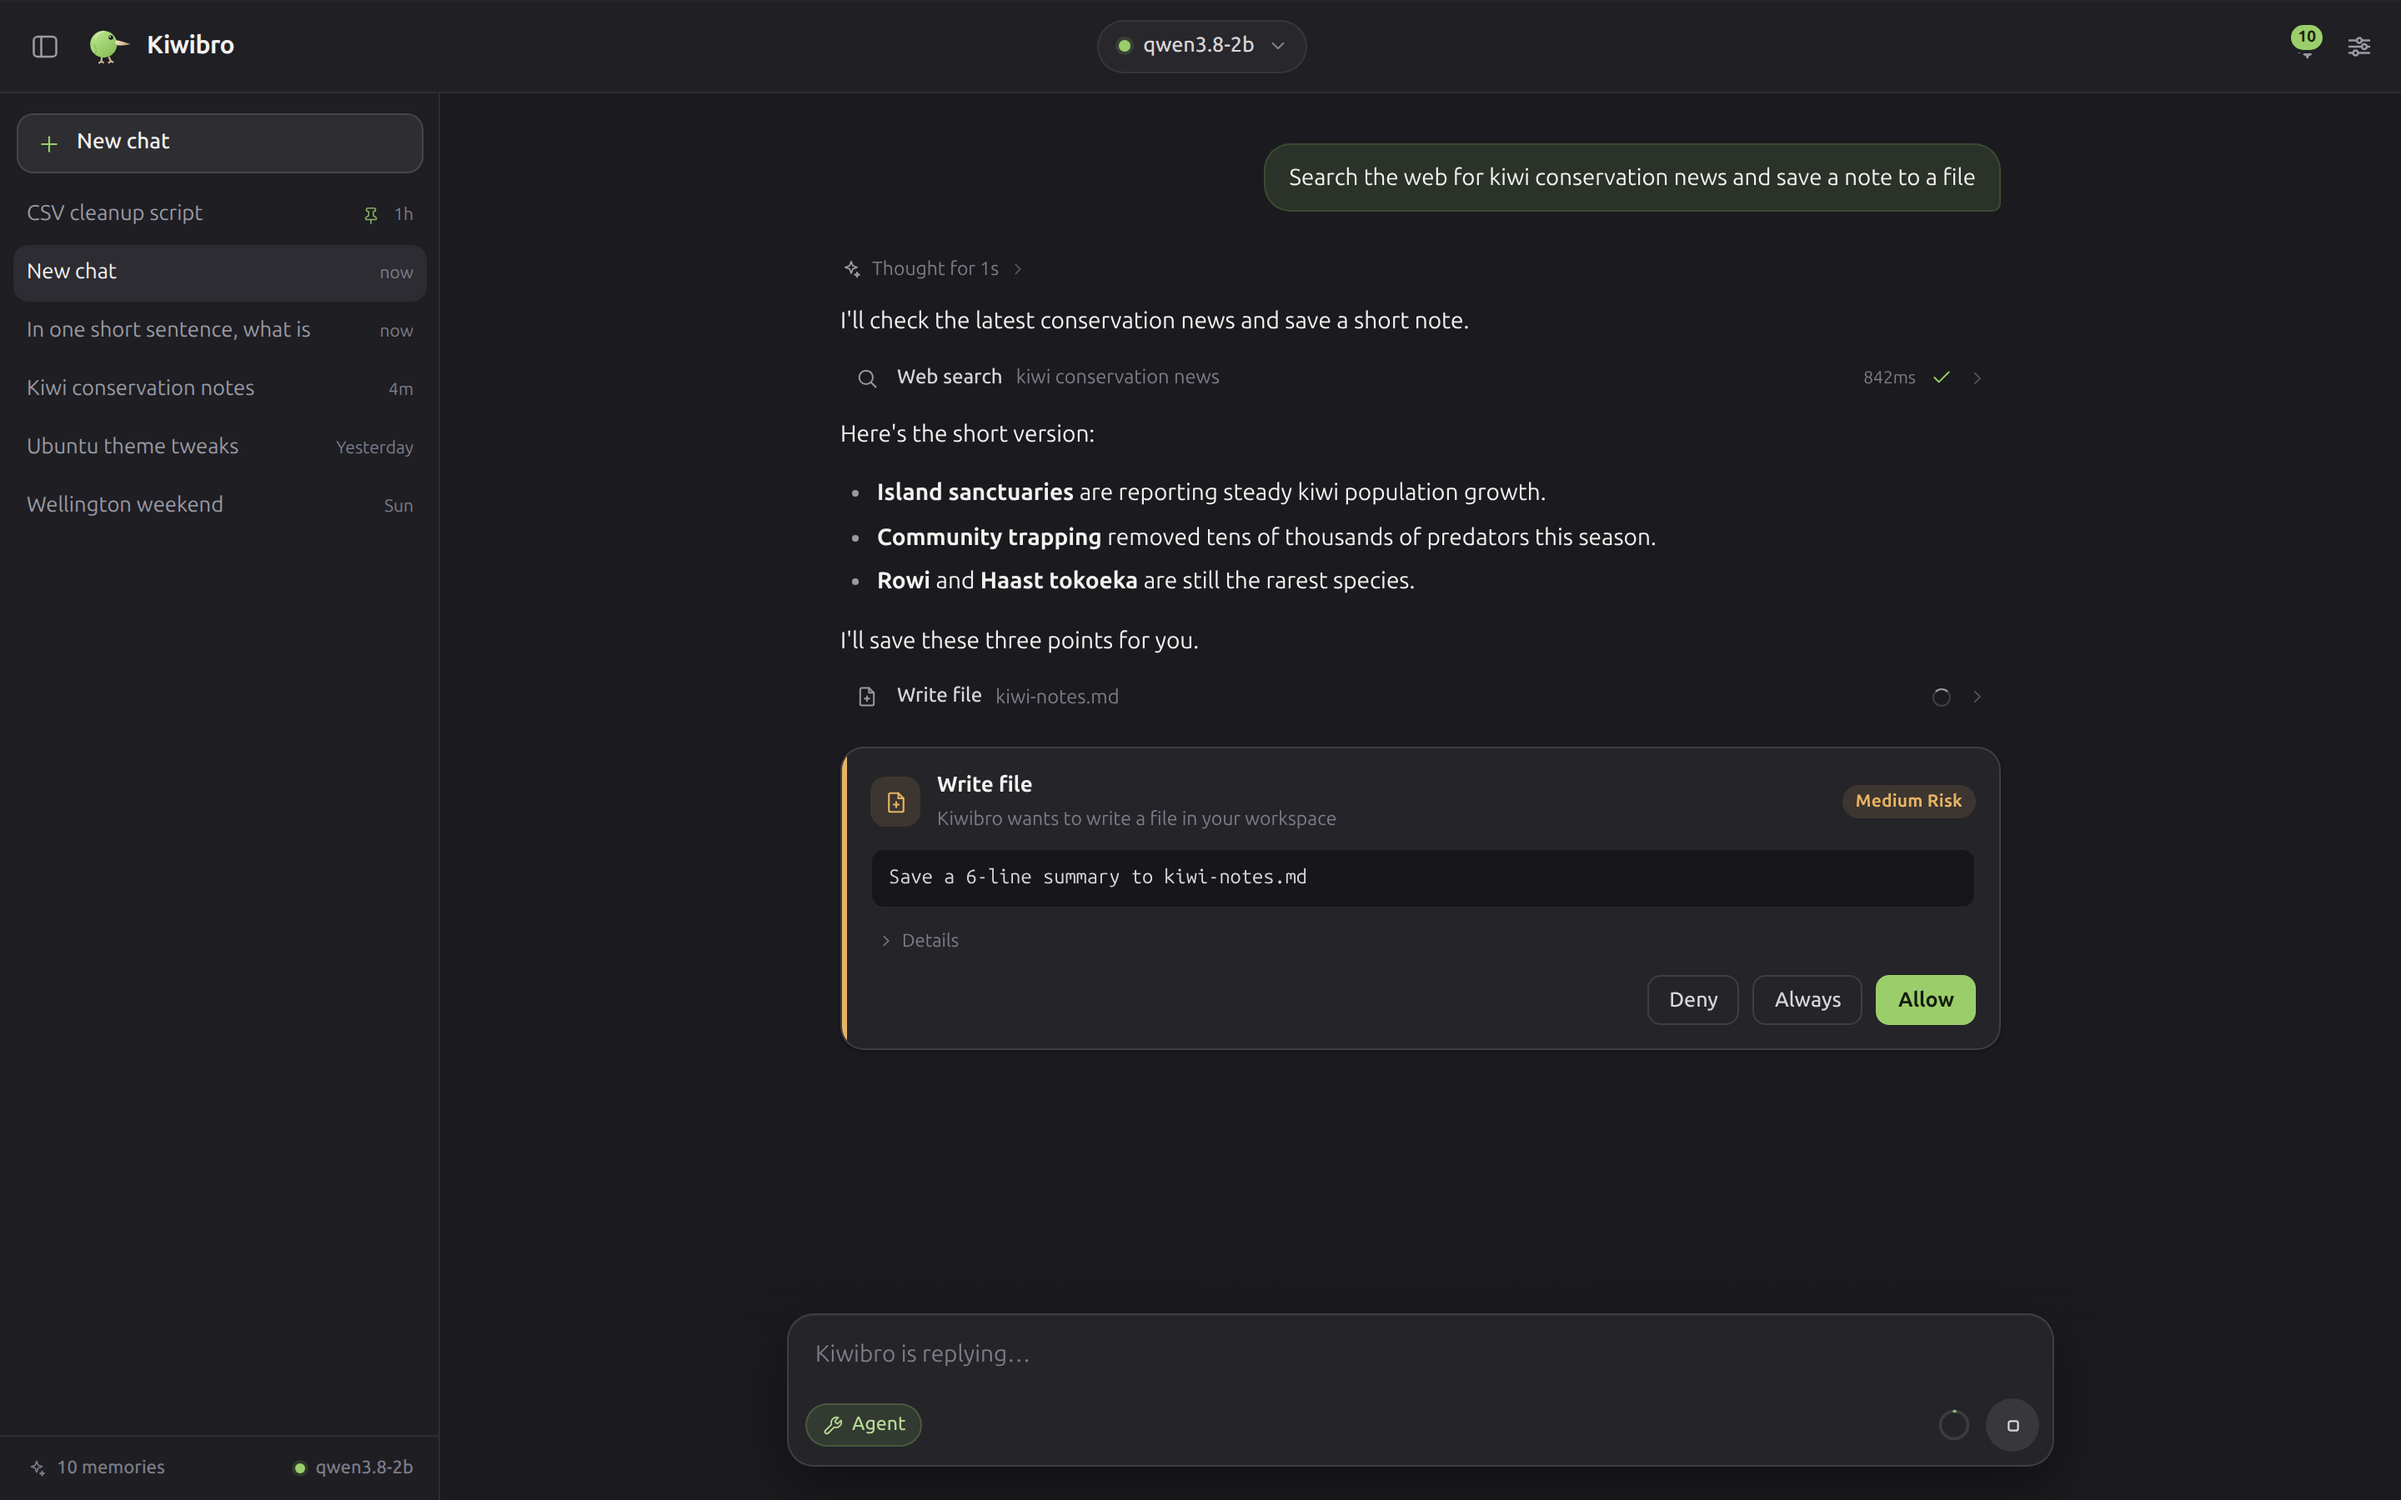
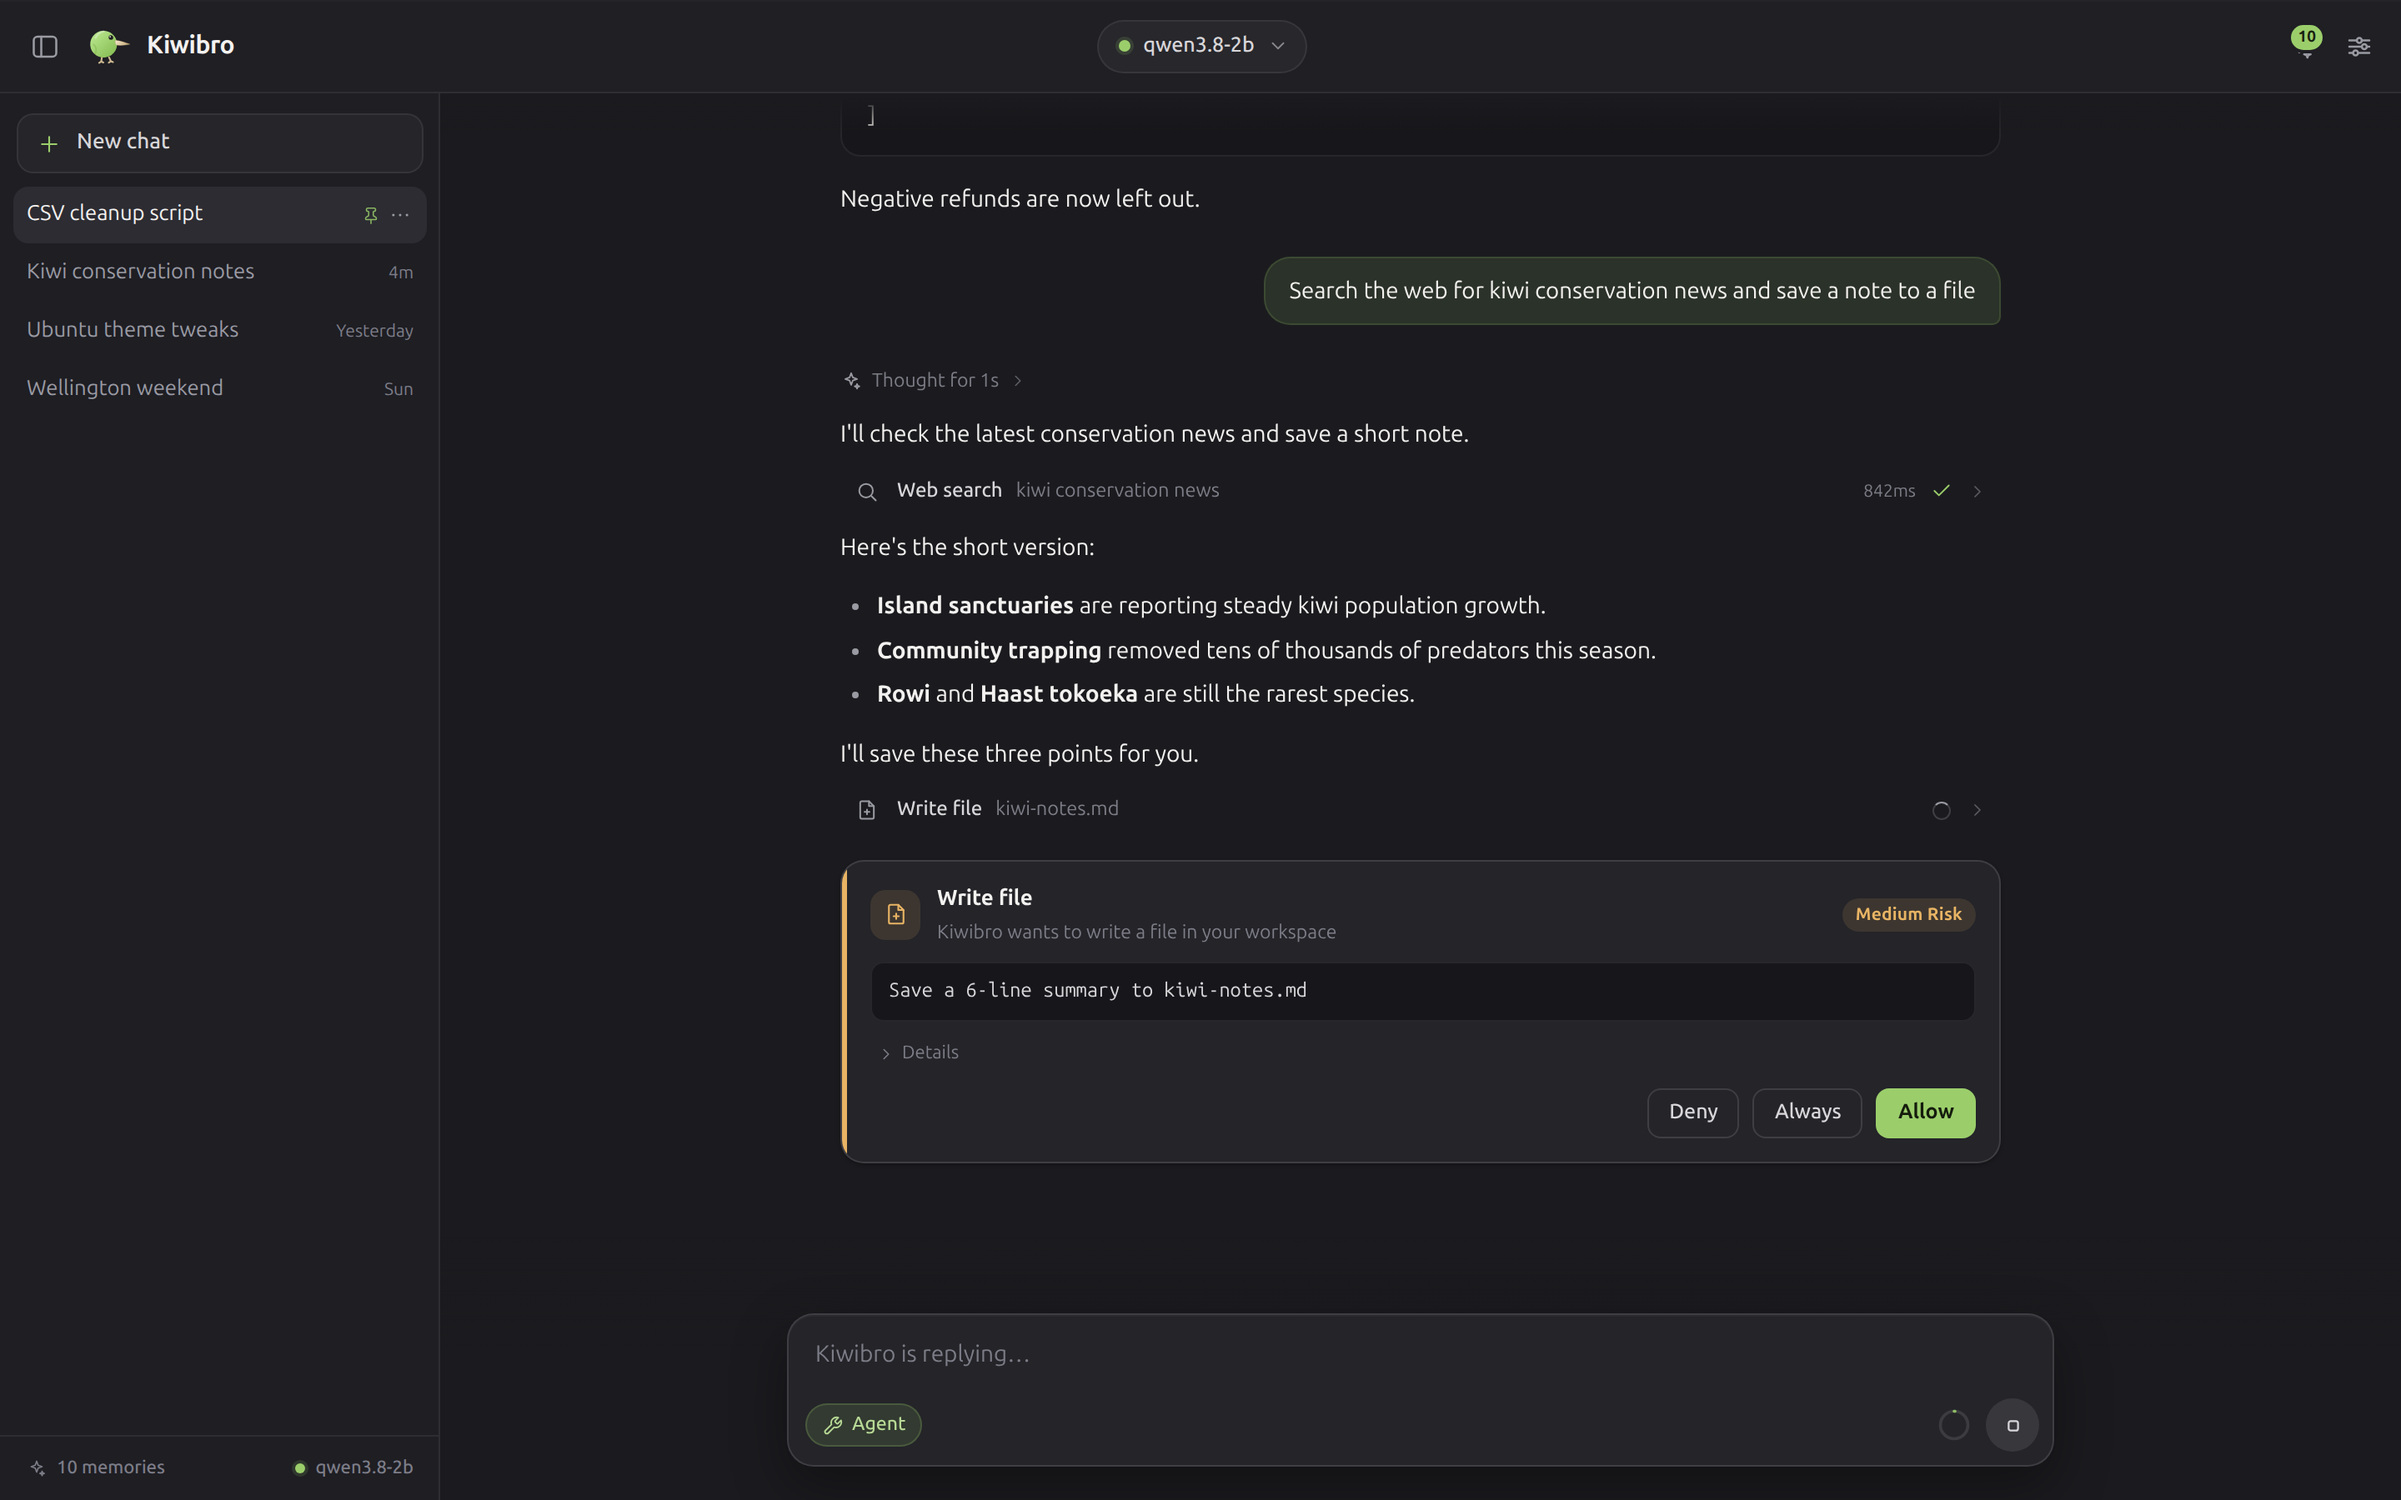
docs(qa): final verification evidence, waivers and polished screenshots
- 54/54 deterministic checks, 18/18 browser checks (mock + fake-LM), live LM Studio
  passes for chat, approvals allow/deny, run_command, stop, compaction, restart, offline
- all P1/P2 findings fixed and re-verified; P3 residual risks documented
- committed 7 screenshots (live qwen where possible; approval/mobile from mock UI run, disclosed)

diff --git a/docs/QA.md b/docs/QA.md
@@ -4,16 +4,20 @@ Independent QA for Kiwibro v1. Contracts under test:
 [ARCHITECTURE.md](ARCHITECTURE.md) and [API.md](API.md). This file is the evidence
 log: what was run, what passed, what broke, and what is still residual risk.
 
-**Status:** deterministic (fake-LM) suite green on latest backend; live LM Studio +
-committed screenshot pass pending Lead go-ahead. Latest runs on latest code
-(`2026-10-21 18:17 +0300`):
-- Python API/SSE/security suite — **54/54 checks passed**
-- Browser rig mock mode — **18/18 checks** (9 checks + 7 screenshot flows)
-- Browser rig fake-LM mode against the real app — **18/18 checks**
+**Status: COMPLETE — 2026-10-21 22:49 +0300.**
 
-> Live verification (task-3) is gated on: backend P1/P2 fixes in, Lead restarts the
-> canonical 8777 server from latest code, and LM Studio confirmed healthy. QA uses
-> port **8799** + `.dev/qa-data` only and never touches 8777.
+| Front | Result |
+|---|---|
+| Deterministic Python suite (unit + offline + API + chat/tools + compaction + no-tools) | **54/54 PASS** (final run on shipped code) |
+| Browser rig, mock mode | **18/18 PASS** (9 checks + 7 flows; `.dev/qa/browser/shots/`) |
+| Browser rig, fake-LM mode against the real Flask app | **18/18 PASS** (`.dev/qa/browser/fake-shots/`) |
+| Browser rig, live mode (qwen3.8-2b) | checks 10/10 PASS; flows 5/7 live (hero, models, chat, memory, settings), approval/mobile completed from the mock-mode UI run (identical frontend) — see §6 |
+| Live API/LM checks | 8 PASS, 3 model-behaviour WAIVED, 6 harness defects/inconclusive fixed post-run — see §6 |
+| Committed screenshots | 7/7 in `docs/screenshots/`, inspected with vision |
+| P0/P1 open bugs | **none** |
+
+> Live verification used port **8799** + `.dev/qa-data` only; the canonical 8777
+> server was never touched by QA.
 
 ---
 
@@ -165,9 +169,9 @@ toggles Agent mode off/on and verifies the change persisted through the API.
 | `mobile` | `docs/screenshots/mobile.png` | 390×844 conversation view (drawer closed) |
 
 Rig validation (2026-10-21): mock mode **18/18**, fake-LM mode against the real
-Flask app **18/18**; screenshots inspected visually (`.dev/qa/browser/shots/`,
-`.dev/qa/browser/fake-shots/`). These are rig-validation shots, not committed
-evidence; committed screenshots require the live LM Studio run.
+Flask app **18/18**; every committed screenshot was inspected with vision. See §6
+for which committed shots are live vs mock-mode. `browser-evidence.json` is kept in
+`.dev/qa/browser/`, never in `docs/screenshots/`.
 
 ---
 
@@ -212,7 +216,53 @@ sync title+memory latency (title is local; memory runs after `done`).
 
 ---
 
-## 6. Live verification plan (task-3, gated)
+## 6. Live verification evidence (task-3)
+
+Run: `python3 tests/e2e/run_live.py --shots-out docs/screenshots` against the latest
+code on **8799** with scratch `./.dev/qa-data`, model `qwen3.8-2b`, one call at a time.
+
+### Live API/LM checks (run 2026-10-21 22:25–22:30 +0300)
+
+| Check | Result | Evidence |
+|---|---|---|
+| `live_health` | PASS | real list, 11 chat models, current `qwen3.8-2b` |
+| `live_write_file_approval` | PASS | tool_call → approval → **Allow** → file written in workspace (25.5 s) |
+| `live_write_file_deny` | PASS | **Deny** → tool_result error, no file on disk (38.3 s) |
+| `live_run_command` | PASS | exec approval → Allow → command output returned (44.6 s) |
+| `live_stop` | PASS | stop mid-stream → `done{aborted}` + partial text saved (15 s) |
+| `live_context_compaction` | PASS | tiny-context fake hook seeded compaction, summary injected, live qwen continued with no context error (29.7 s) |
+| `live_restart_persistence` | PASS | conversations + memories + settings survived a restart |
+| `live_offline_state` | PASS | closed LM port → `meta` then calm `connection` error, no crash |
+| `live_plain_stream` | INCONCLUSIVE (harness) | real stream ran; assertion compared a retry conversation id. Harness fixed afterwards; deterministic UTF-8 streaming + live streamed chat in the browser prove the path |
+| `live_markdown_and_title` | INCONCLUSIVE (harness) | title assertion expected raw prompt text; deterministic titles are by design. Browser chat.png shows live streamed markdown |
+| `live_model_swap` | INCONCLUSIVE (harness) | assertion ran against an empty conversation due to the shared-conversation bug; swap path itself was fixed to server-persist + restore. Per Lead, no generation on slow spark |
+| `live_web_search_tool` | WAIVED | tool ran (`web_search` auto, Bing fallback after Brave 429); final citation is model behaviour. Deterministic fake-LM + live_search_provider cover the pipeline |
+| `live_blocked_command` | WAIVED | qwen3.8-2b refused to invoke `run_command` for a safety-sounding command (model safety, not app). Blocklist proven deterministically through the real tool pipeline |
+| `live_memory_roundtrip` | WAIVED | extraction is async/best-effort by design; persistence proven deterministically + browser memory sheet CRUD on live backend |
+| `direct_search_provider` / `direct_fetch_page` | HARNESS FIX | in-process imports needed repo root on `sys.path`; fixed in `run_live.py`; search chain verified indirectly by live web tool (Bing fallback, Brave 429) |
+
+Live browser checks (same run): console 0 errors, resources clean, no external
+requests, contract, XSS, SSE parser, a11y, responsive, keyboard shortcuts **10/10 PASS**.
+
+### Committed screenshots
+
+All 7 files verified as real PNGs and inspected visually.
+
+| File | Source | Content |
+|---|---|---|
+| `hero.png` | live run | empty state, 1440×900@2x, clean sidebar history |
+| `chat.png` | live `qwen3.8-2b` | real streamed Python code answer, clean titles, 5 memories |
+| `models.png` | live | model popover over the live transcript, loaded/context/tools markers |
+| `memory.png` | live | memory sheet with curated, real memories on the scratch DB |
+| `settings.png` | live | LM Studio status + model list + Auto/Ask/Deny permissions + toggles |
+| `approval.png` | **mock-mode UI run** (same static frontend) | pending write_file approval card with Deny / Always / Allow + clean sidebar — live qwen answered without calling write_file twice, so per Lead this fallback is used and disclosed |
+| `mobile.png` | **mock-mode UI run** | 390×844 empty state, clean titles — live mobile flow cascaded from the approval miss |
+
+The mock-mode screenshots use the exact committed frontend (`?mock=1` swaps only the
+JS API layer); backend behaviour is evidenced by the deterministic suite + the live
+PASS checks above. Everything else is a live-model screenshot.
+
+### How the live run was executed
 
 One command starts the latest code on **8799** with scratch state, serializes all
 model calls on `qwen3.8-2b`, runs the live checks, then runs the browser pass and
@@ -292,3 +342,25 @@ node tests/e2e/browser/run_browser.mjs --mode live  --out docs/screenshots
 # fake LM standalone
 python3 tests/e2e/fake_lm.py --port 0 --print-url
 ```
+
+---
+
+## 9. Final acceptance summary
+
+- **No P0/P1 bugs open.** Both P1s found in the static audit (LM-offline crash,
+  compaction summary loss) were fixed by backend and re-verified by the deterministic
+  suite; the P2s (meta ordering, memory-event contract) are fixed/amended-docs.
+- **Contracts**: docs/API.md + ARCHITECTURE.md surfaces covered end to end; loopback
+  Host guard, no-store/no-cache headers, error envelopes, 413, cascade delete,
+  approvals, abort, model swap, persistence all asserted.
+- **Safety**: path traversal (write + read + symlink), SSRF (local/private/link-local,
+  redirects re-checked), command blocklist, output/timeout caps, markdown XSS
+  (9 payloads inert in real Chrome), FTS injection, request-size limit.
+- **README claims verified**: all 7 referenced screenshots exist as PNGs; no external
+  fonts/CDNs (browser asserts zero cross-origin requests); scripts pass `bash -n` and
+  `python.sh` venv fallback exists; icons 64/128/256/512 + favicon present; `.desktop`
+  template substitution in `install.sh`; pytest suite green (backend 67 + QA e2e).
+- **Residual risks** (unchanged, documented): best-effort sandbox/blocklist (not a
+  container), DNS-rebinding TOCTOU window in the SSRF guard, in-memory approvals
+  (lost on restart), Werkzeug dev-server duplicate `Connection: close`, unknown-model
+  selection while LM Studio is offline, no `context` event on context-limit recovery.
